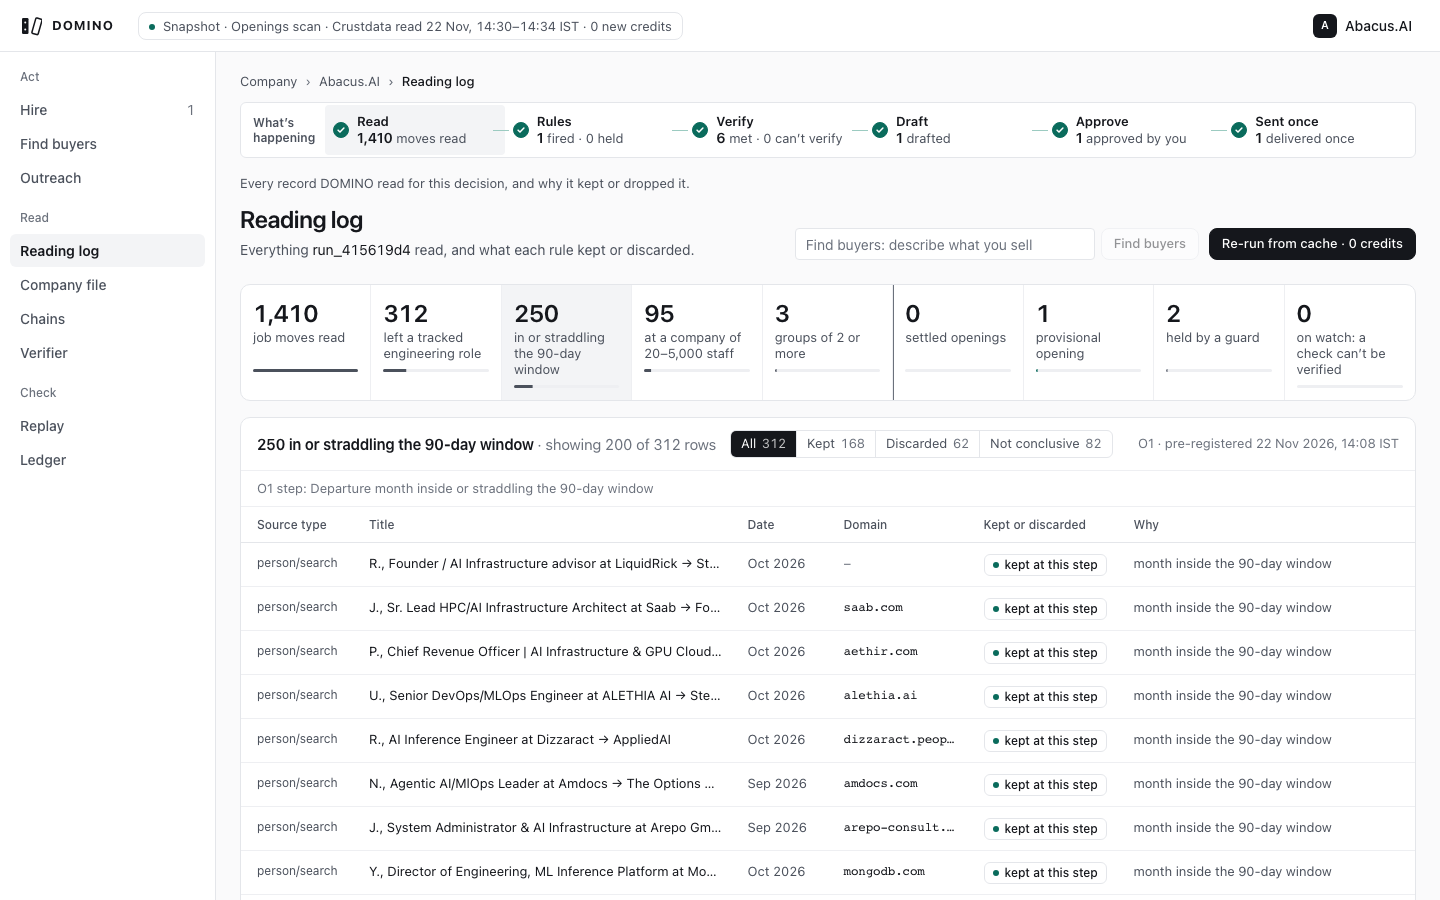
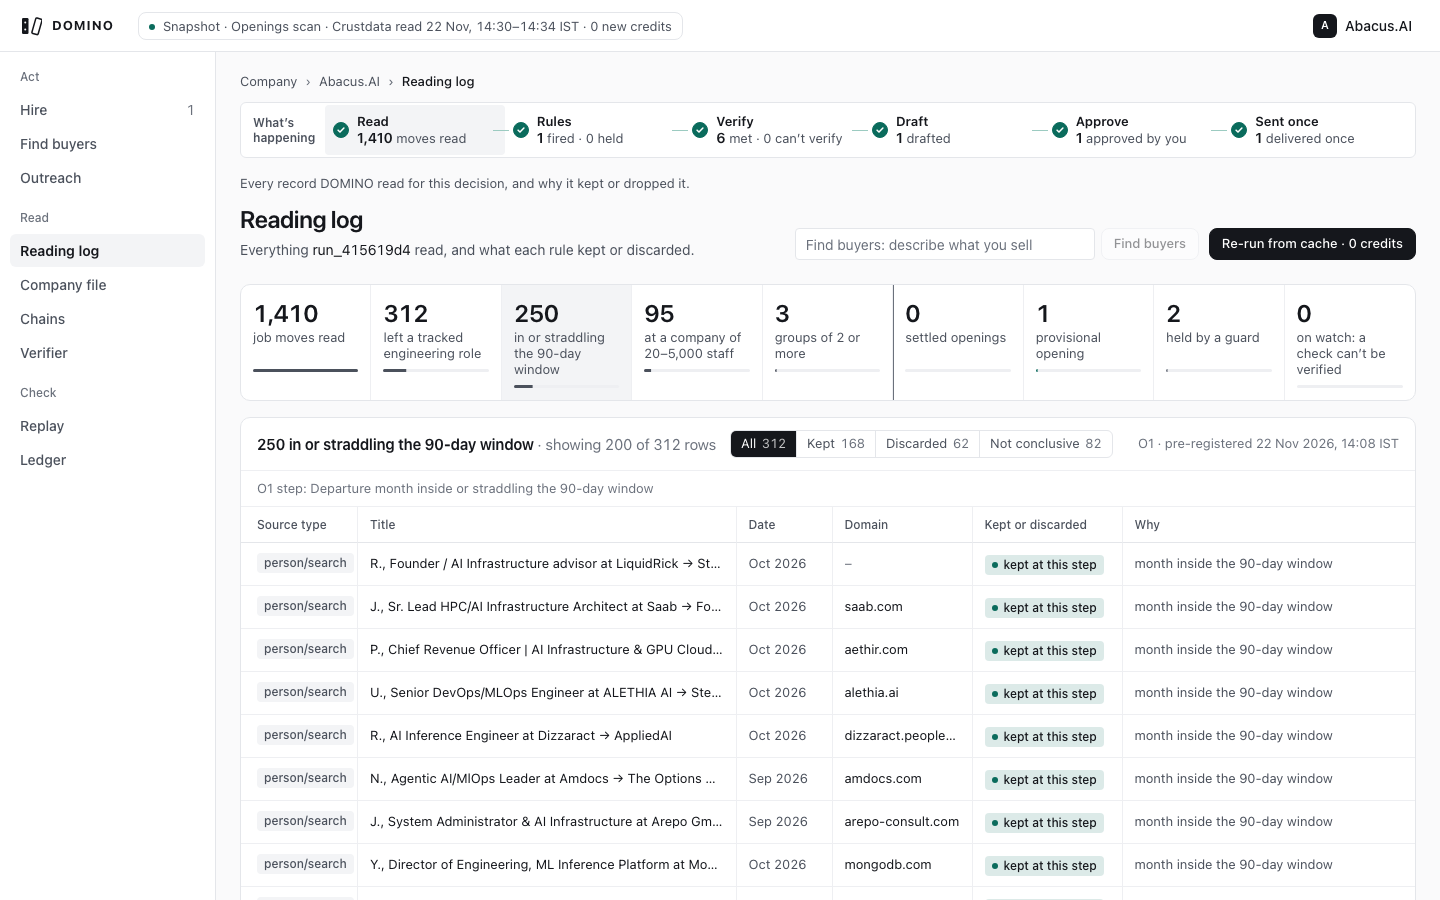
Hire and Reading log: Attio SPEC grid (column hairlines, filled stroke-free chips, 38-40px rows, sans domain), council r1 fixes

diff --git a/web2/src/features/reading/reading.css b/web2/src/features/reading/reading.css
@@ -148,3 +148,15 @@ tr:not(.rd-sub) + .rd-sub td, .rd-sub + .rd-sub td { border-top: 0; }
   .rd-table, .rd-date { font-size: var(--fs-body); }
 }
 
+/* Attio SPEC + council r1: hairline column dividers, filled tinted chips with no stroke (source type neutral, kept a
+   teal tint for meaning), 38-40px rows (a 20px pill inside 9px cell padding), and the domain in sans like every cell. */
+.rd-table th + th, .rd-table td + td { border-left: 1px solid var(--rule-2); }
+.rd-table td { padding-top: 9px; padding-bottom: 9px; }
+.rd-dom { font-family: var(--sans); font-size: var(--fs-ui); letter-spacing: 0; }
+.rd-chip, .rd-pill { height: 20px; padding: 0 7px; border: 0; border-radius: var(--r-sm); font-size: var(--fs-cap); font-weight: var(--w-med); }
+.rd-chip { display: inline-flex; align-items: center; background: var(--hover); color: var(--ink-2); white-space: nowrap; }
+.rd-pill { background: var(--hover); }
+.rd-pill-kept { background: color-mix(in srgb, var(--acc) 14%, transparent); }
+.rd-pill-provisional { background: transparent; border: 1px dashed var(--acc); }
+.rd-pill-held, .rd-pill-inconclusive { border: 1px solid var(--rule); }
+

diff --git a/web2/src/features/reading/Reading.tsx b/web2/src/features/reading/Reading.tsx
@@ -287,7 +287,7 @@ const Row = memo(function Row({ r, settled }: { r: LogRow; settled: boolean }) {
   return (
     <tr ref={ref} data-testid="reading-row" data-decision={r.decision} className={[open && 'rd-open', r.sub && 'rd-sub'].filter(Boolean).join(' ') || undefined}
       onClick={open} tabIndex={open ? 0 : undefined} onKeyDown={open ? (e) => { if (e.key === 'Enter') open(); } : undefined}>
-      <td className="rd-src">{r.source}</td>
+      <td className="rd-src"><span className="rd-chip">{r.source}</span></td>
       <td className="rd-title" title={r.title}>{r.title}</td>
       <td className="rd-date" title={r.monthLevel ? 'month-level date' : undefined}>{r.date}</td>
       <td className={r.domain ? 'mono rd-dom' : 'faint'} title={r.domain ?? 'no domain on record'}>{r.domain ?? '–'}</td>

diff --git a/web2/src/features/openings/openings.css b/web2/src/features/openings/openings.css
@@ -199,3 +199,8 @@
   .rec .panel > header > span:not(.st) { font-size: var(--fs-body); }
 }
 
+/* Attio SPEC + council r1: hairline column dividers, a filled teal-tint pill with no stroke, 38-40px rows. */
+.rec-dep table.t th + th, .rec-dep table.t td + td, .rec-hire th + th, .rec-hire td + td { border-left: 1px solid var(--rule-2); }
+.rec-dep table.t td { padding-top: 9px; padding-bottom: 9px; }
+.rec-pill { height: 20px; padding: 0 7px; border: 0; border-radius: var(--r-sm); background: color-mix(in srgb, var(--acc) 14%, transparent); }
+
